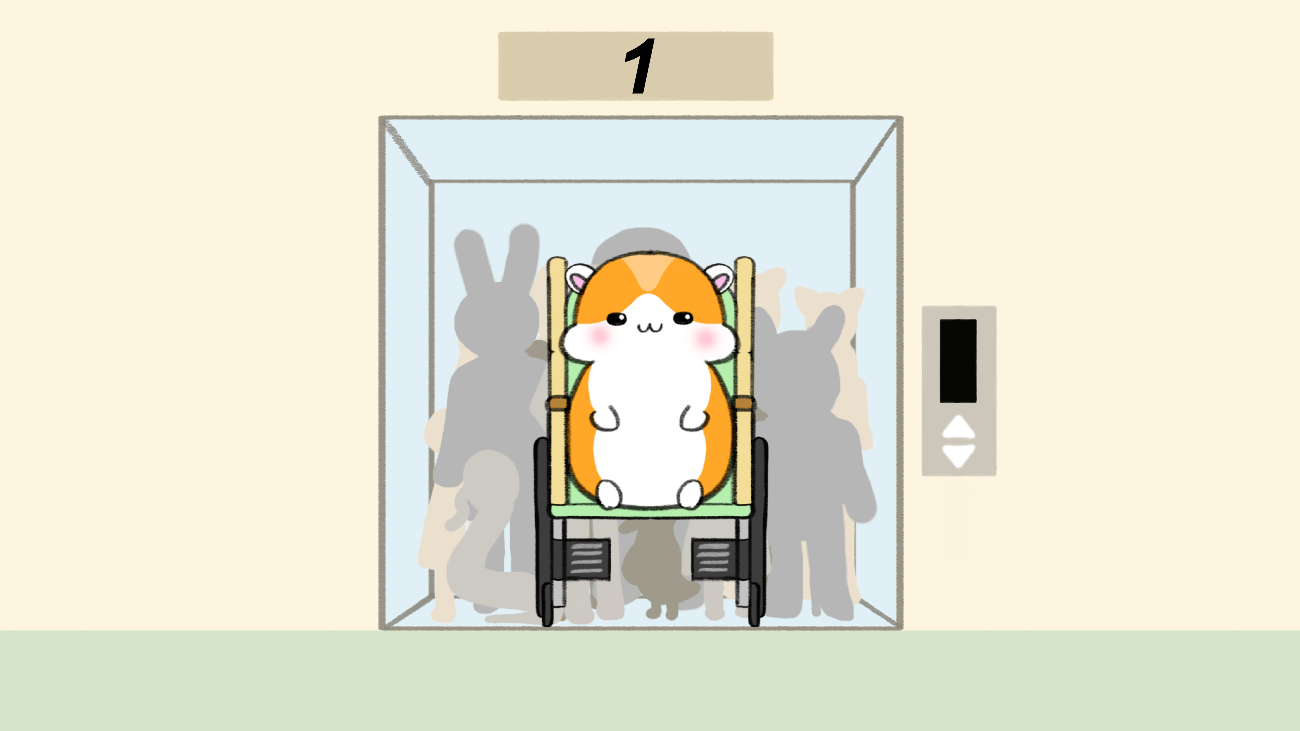
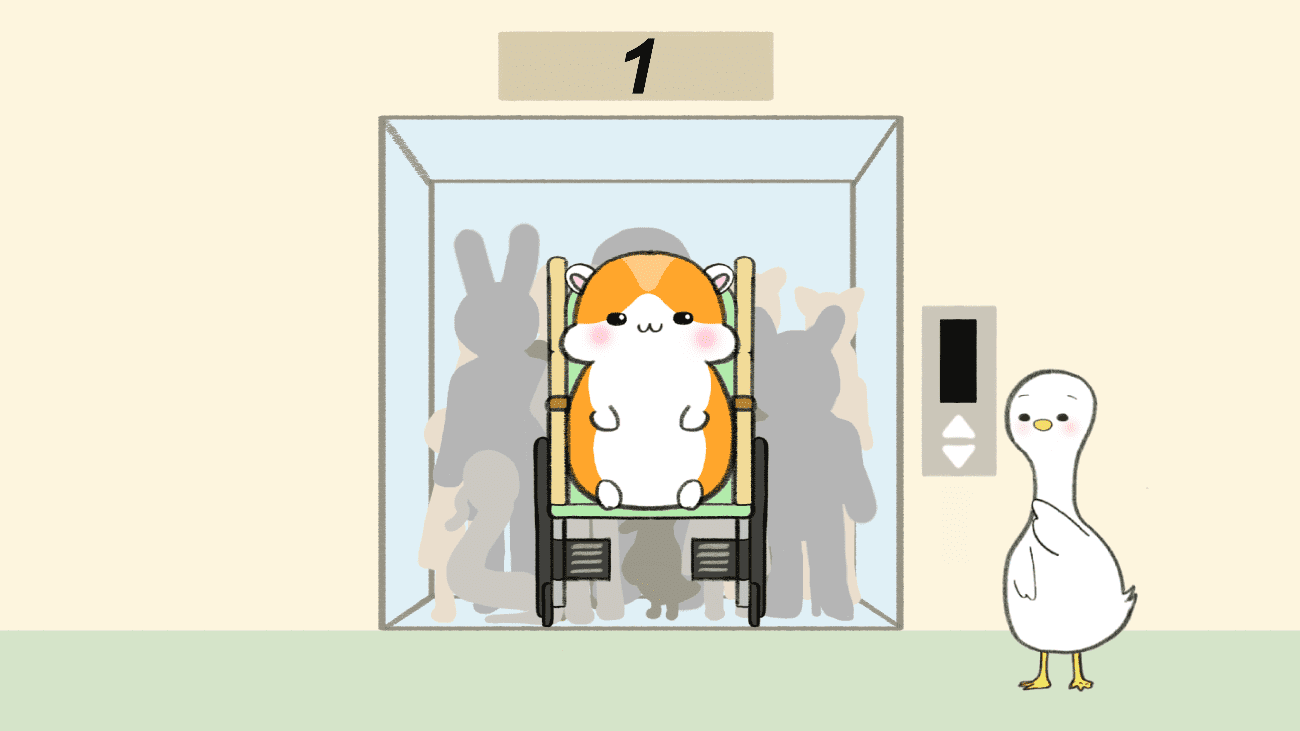
画像の変更と表示される画像を正しいものに変更

diff --git a/src/components/Game.vue b/src/components/Game.vue
@@ -113,11 +113,11 @@ export default {
           choices: [
             {
               text: "「小声ですみませんと言う」",
-              image: SecondUImage,
+              image: FirstTImage,
             },
             {
               text: "「あの、15分ぐらい見送ってまして、、」と言う",
-              image: SecondUImage,
+              image: FirstTImageImage,
             },
             {
               text: "舌打ちする",
@@ -137,19 +137,19 @@ export default {
           choices: [
             {
               text: "「歩ける方、時間に余裕のある方はエスカレーターで行ってもらえませんか？」と言う",
-              image: ThirdSImage,
+              image: FirstTImage,
             },
             {
               text: "「外国ではみんな譲ってくれるんだけどな〜」と大きな独り言を言う",
-              image: ThirdSImage,
+              image: ThirdUImage,
             },
             {
               text: "仁義を切る",
-              image: ThirdTImage,
+              image: ThirdSImage,
             },
             {
               text: "「あ、UFOだ！」と言う",
-              image: ThirdUImage,
+              image: ThirdTImage,
             },
           ],
           correctAnswer: [0],
